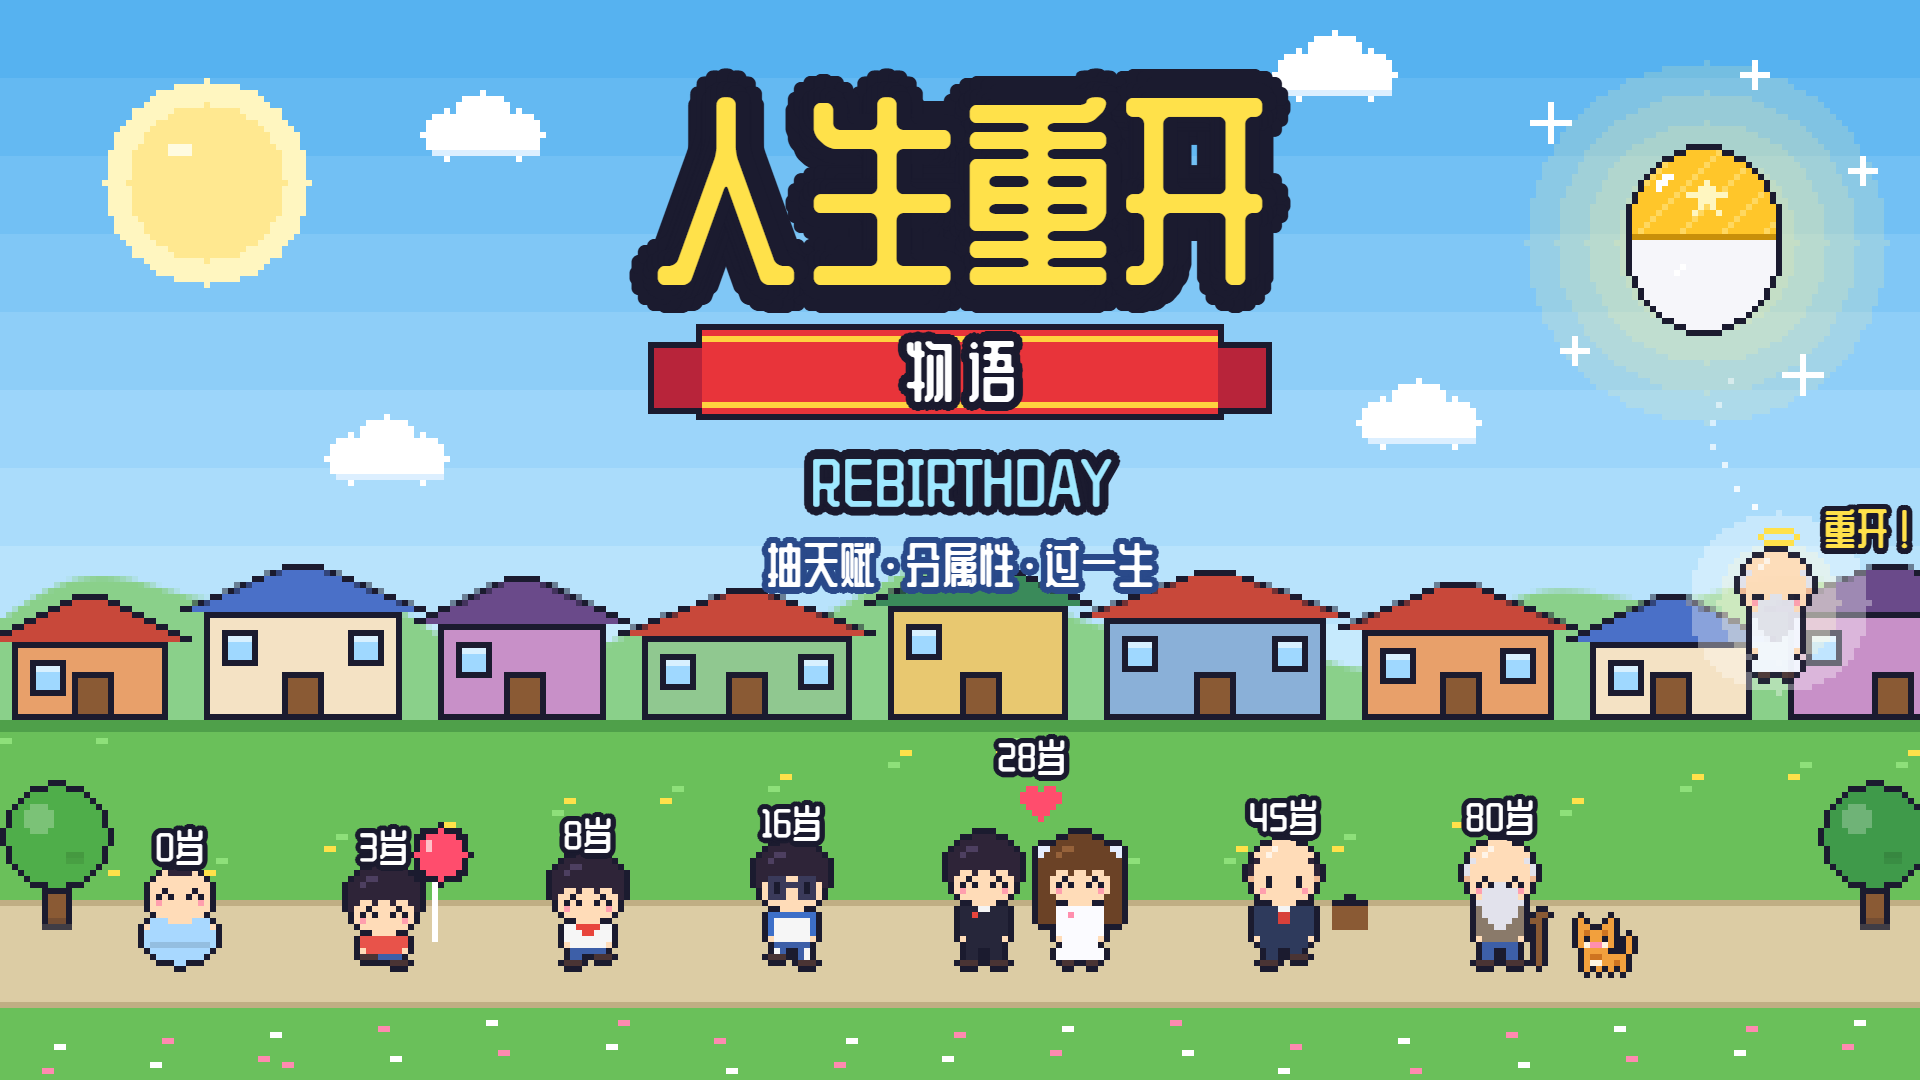
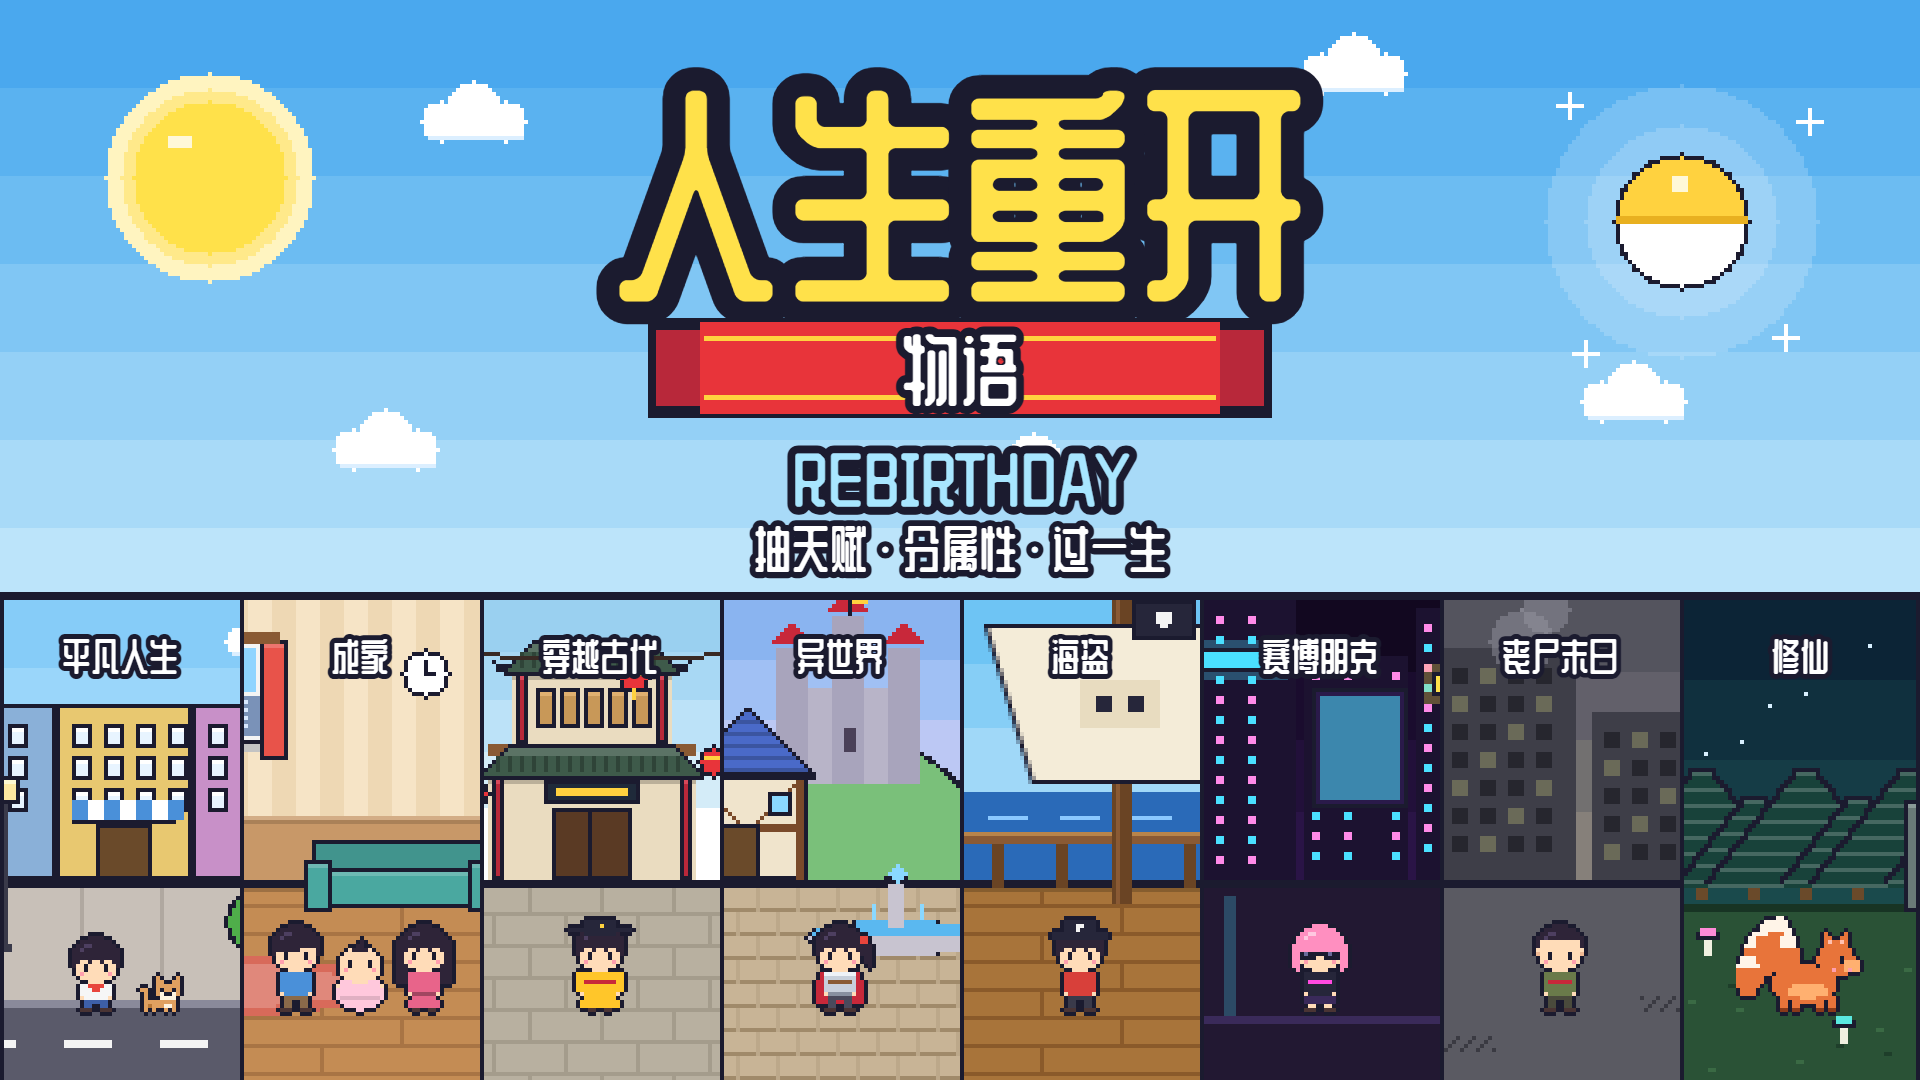
New cover: eight lives side by side; README numbers updated

diff --git a/README.md b/README.md
@@ -17,12 +17,13 @@
 
 ## 内容
 
-- 579 条人生事件，67 个天赋，57 个成就
+- 800 多条人生事件，67 个天赋，57 个成就
 - 出生地（山村 / 县城 / 大城市 / 海外）各有专属事件
 - 连续剧情：青梅竹马、一辈子的死党、一只宠物的一生
 - 20 多种职业：程序员、公务员、医生、外卖骑手、主播、明星、电竞选手、科学家、航天员……
-- 隐藏路线：修仙（青云宗 / 血煞宗魔修 / 万妖山妖修）、卡车转生异世界（勇者或魔王）、穿越古代考状元当皇帝、丧尸末日、赛博朋克、海盗、外星人
-- 29 个像素场景，人物会随年龄长大变老、换校服工装官袍、秃头、拄拐；父母、伴侣、孩子、猫狗都会出现在场景里
+- 隐藏路线：修仙（青云宗 / 血煞宗魔修 / 万妖山妖修）、卡车转生异世界（勇者或魔王）、穿越古代考状元当皇帝、丧尸末日、赛博朋克、海盗、外星人；每条路线从年轻一直写到老，也可能回到原来的世界
+- 属性会影响一辈子：智力决定能挣多少钱，家境决定能不能看得起病，颜值影响桃花，快乐影响身体
+- 38 个像素场景（古代街市、异世界城镇、王宫、魔王城、港口……），人物会随年龄长大变老、换校服工装官袍、秃头、拄拐；父母、伴侣、孩子、猫狗都会出现在场景里
 - 轮回簿记录每一世；每个人生阶段和路线都有自己的芯片音乐
 
 ## 本地运行
